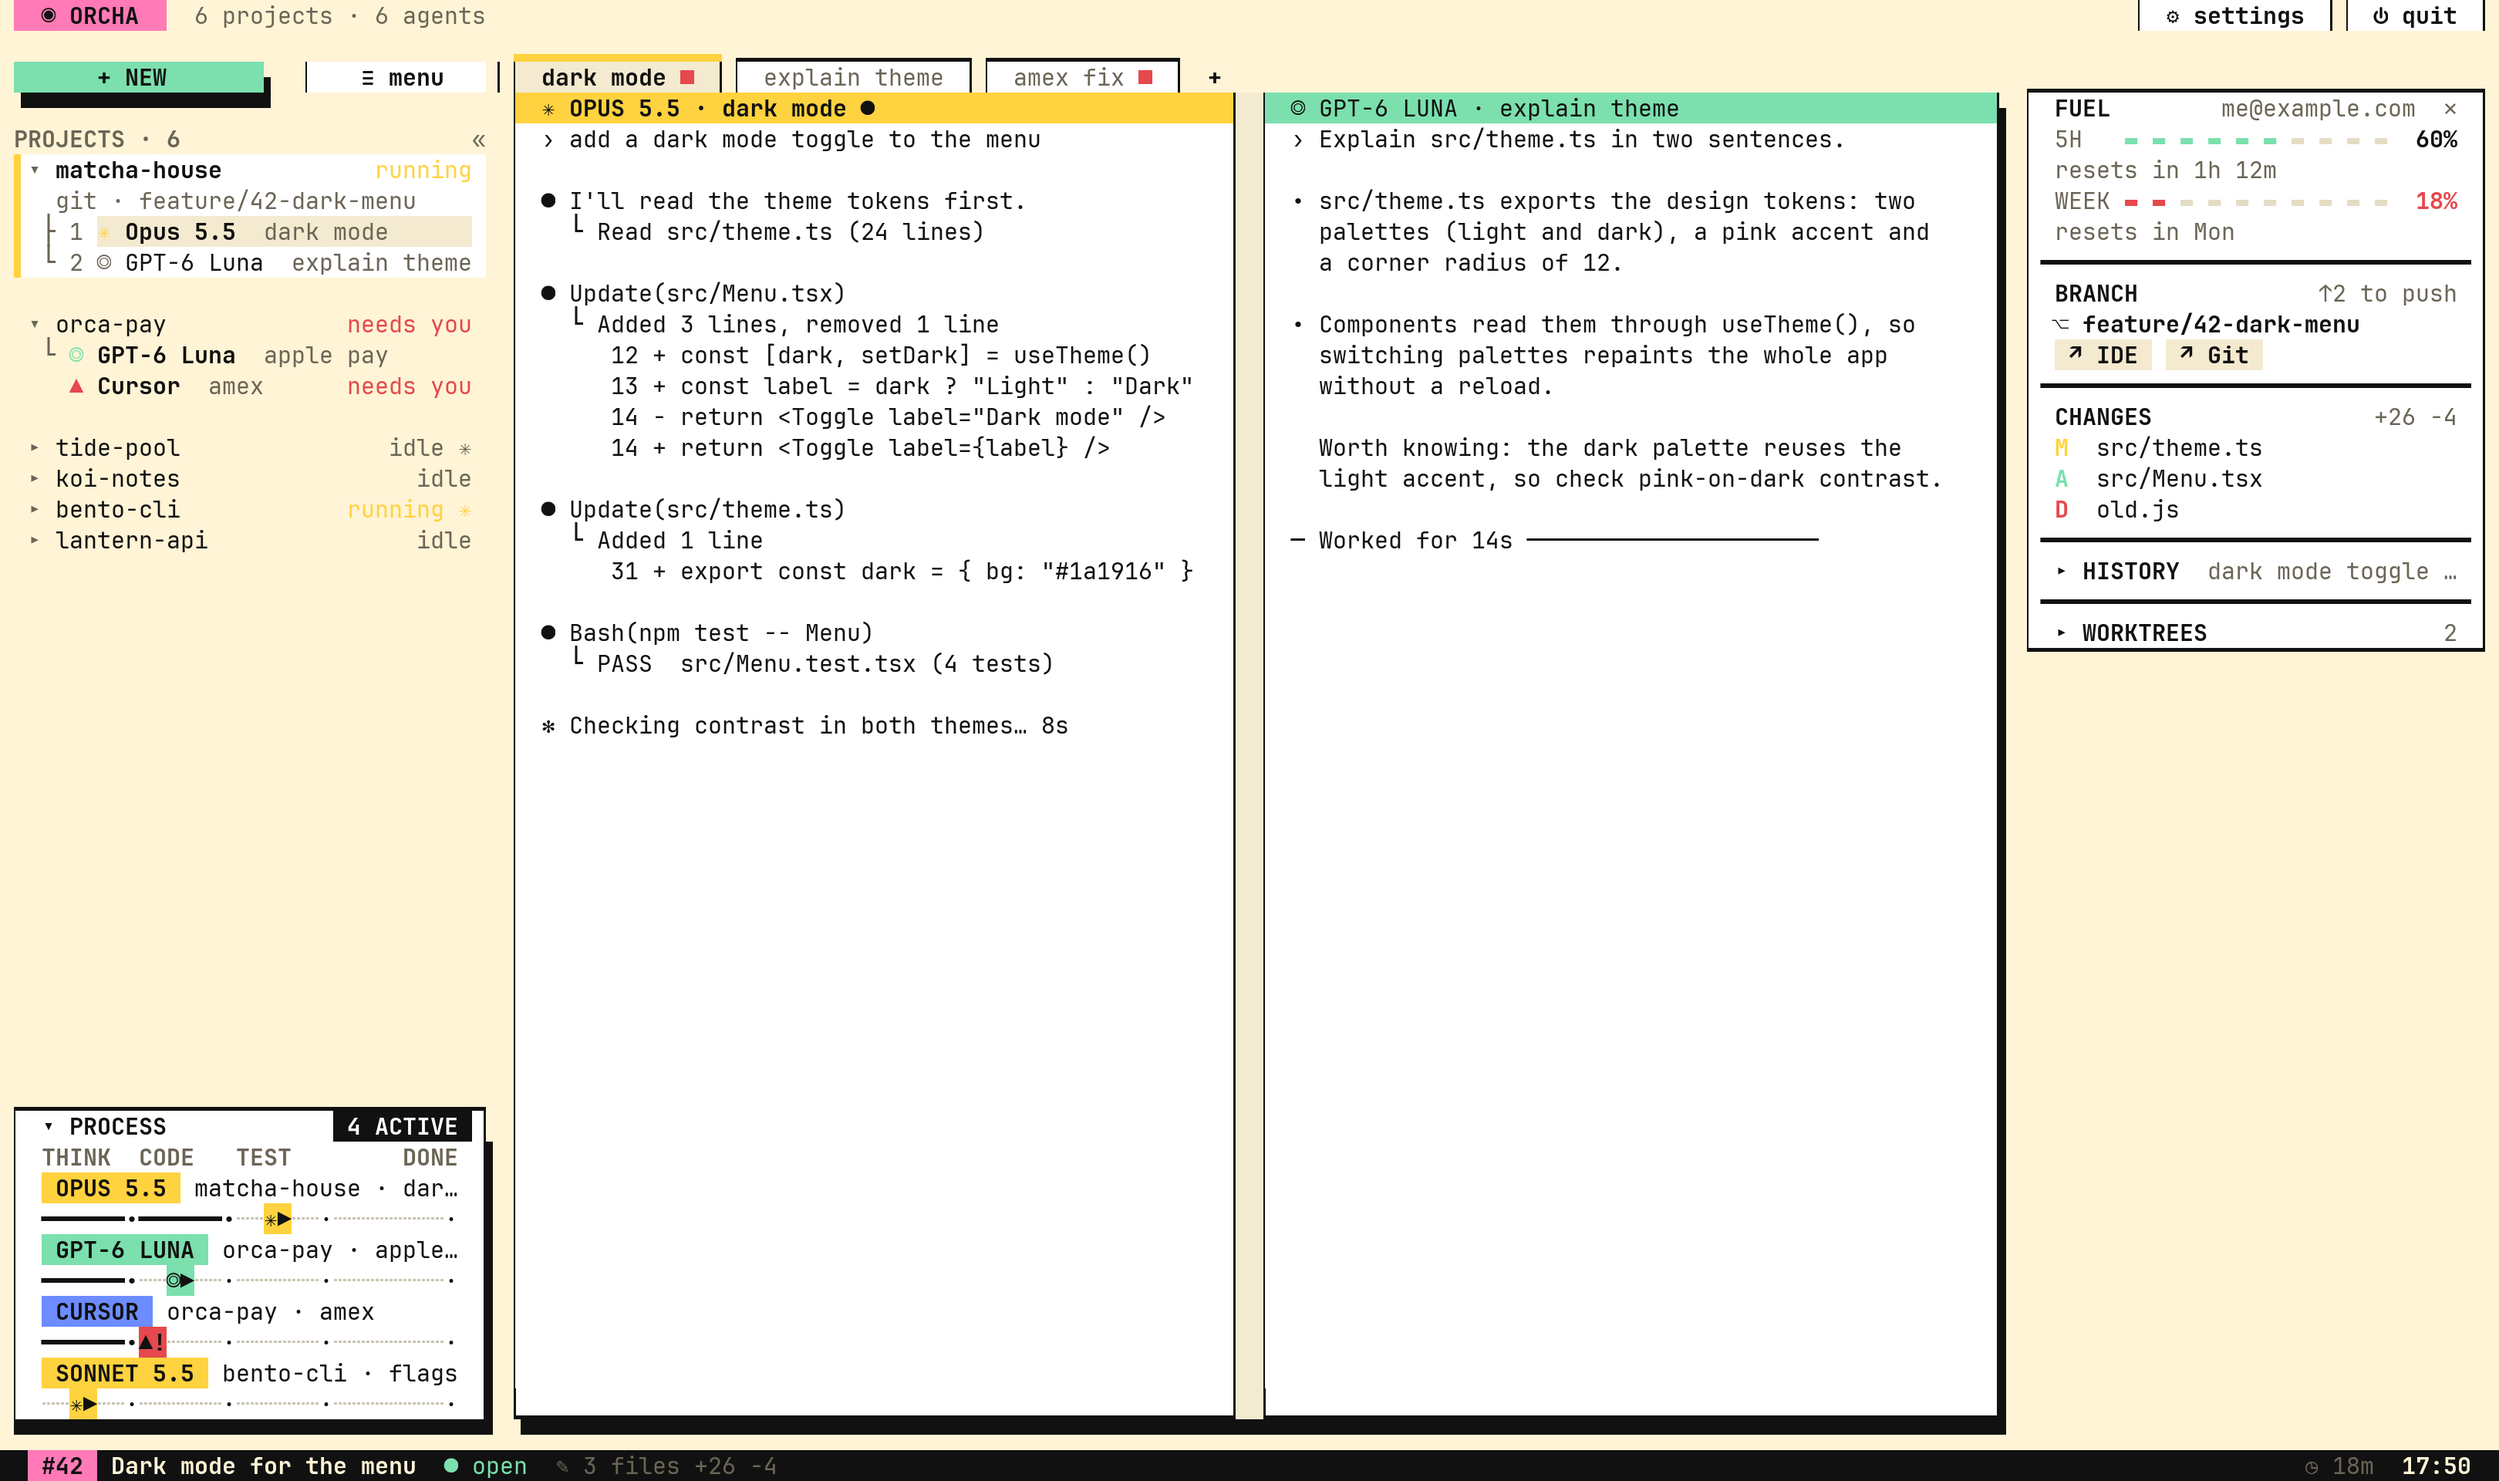
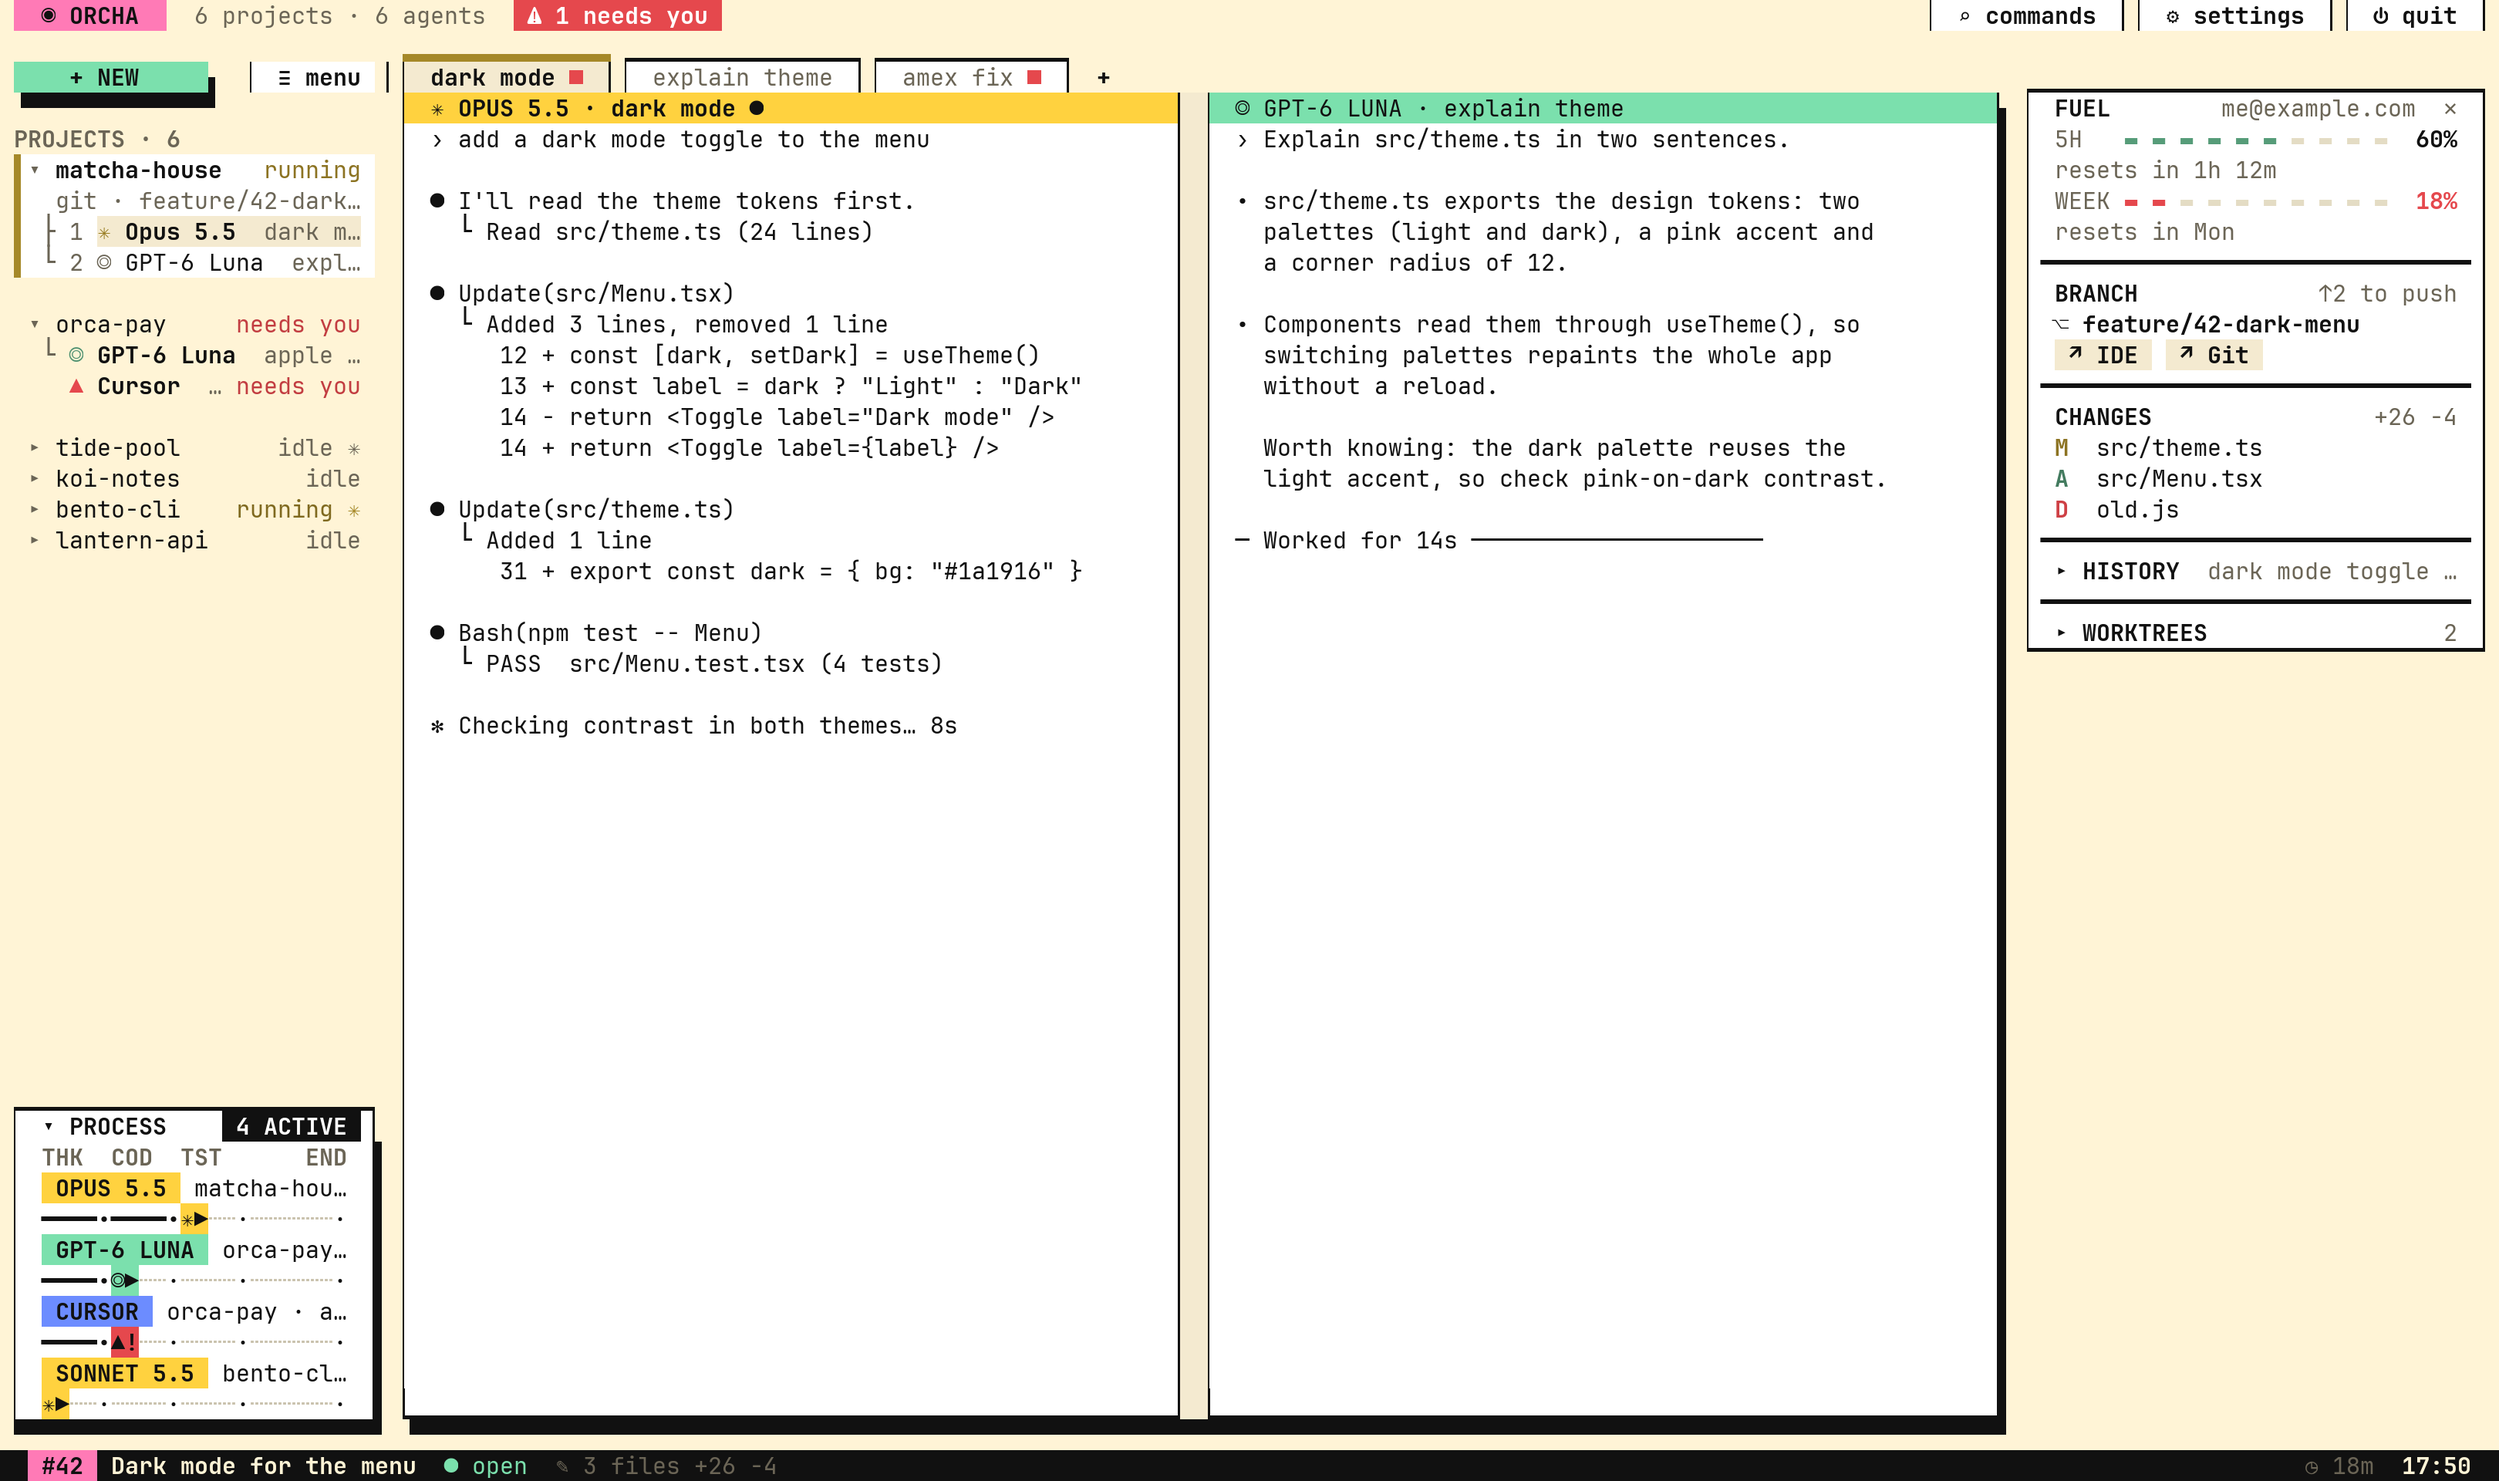
docs: refresh orcha 0.9.9 website and readme

Changed region(s): [[0.0, 0.0, 0.7793, 0.9688], [0.7481, 0.0, 0.8728, 0.0312]]

diff --git a/index.html b/index.html
@@ -4,7 +4,7 @@
     <meta charset="utf-8" />
     <meta name="viewport" content="width=device-width, initial-scale=1, viewport-fit=cover" />
     <meta name="theme-color" content="#1f1c19" />
-    <meta name="description" content="Orcha brings coding agents, projects, account fuel and Git context into one calm terminal workspace." />
+    <meta name="description" content="A little home for your very busy agents. Bring Claude, Codex and Cursor together, check their fuel, and make the workspace yours. macOS and Windows." />
     <title>Orcha — a calm workspace for coding agents</title>
     <link rel="icon" type="image/svg+xml" href="assets/orcha-mark.svg" />
     <link rel="icon" type="image/png" sizes="512x512" href="assets/orcha-mark.png" />
@@ -656,7 +656,7 @@
       <header class="topbar">
         <div class="brand">
           <span class="brand-chip"><img class="brand-mark" src="assets/orcha-mark.svg" alt="" />ORCHA</span>
-          <span class="brand-note">A workspace for coding agents</span>
+          <span class="brand-note">A little home for busy agents</span>
         </div>
         <nav class="top-actions" aria-label="Page actions">
           <a class="github-link" href="https://github.com/trungkien1208/orcha" target="_blank" rel="noreferrer" aria-label="View Orcha on GitHub">
@@ -673,10 +673,10 @@
 
       <main class="stage">
         <section class="workspace-window" aria-label="Orcha workspace preview with projects, agent panes, fuel and Git details">
-          <div class="mini-head">
+          <div class="mini-head" data-spot="commands">
             <span class="mini-brand"><img class="brand-mark" src="assets/orcha-mark.svg" alt="" />ORCHA</span>
             <span class="counts">3 projects · 3 agents</span>
-            <span class="settings">⌘, settings</span>
+            <span class="settings">⌕ commands · settings</span>
           </div>
 
           <div class="window-body">
@@ -782,35 +782,35 @@
         </section>
 
         <section class="intro" aria-labelledby="headline">
-          <p class="eyebrow">The workbench for agentic work</p>
+          <p class="eyebrow"><a href="https://github.com/trungkien1208/orcha/releases/tag/orcha-0.9.9" target="_blank" rel="noreferrer">0.9.9 beta · fresh out of the kitchen ↗</a></p>
           <h1 id="headline">Every agent.<br />Every project.<br />In rhythm.</h1>
-          <p class="lede">Orcha brings coding agents into one terminal workspace, so you can see what’s moving, what needs you, and what changed.</p>
+          <p class="lede">Claude, Codex and Cursor, all under one roof. See who’s busy and who needs a hand. Less tab hide-and-seek, more getting things done.</p>
           <div class="intro-cta">
-            <a class="primary-link" href="https://github.com/trungkien1208/orcha#install" target="_blank" rel="noreferrer">Get started <span aria-hidden="true">↗</span></a>
-            <span class="agent-list">MACOS · WINDOWS</span>
+            <a class="primary-link" href="https://github.com/trungkien1208/orcha#install" target="_blank" rel="noreferrer">Come on in <span aria-hidden="true">↗</span></a>
+            <span class="agent-list">MACOS · WINDOWS<br />YOUR TERMINAL IS WELCOME</span>
           </div>
           <div class="feature-grid" aria-label="Orcha features">
             <article class="feature" tabindex="0" data-target="projects">
               <h2 class="feature-title"><i class="feature-mark" aria-hidden="true"></i>Projects together</h2>
-              <p>Every project, its tabs and agents in one tree.</p>
+              <p>Import your projects. Give a new branch its own worktree.</p>
             </article>
-            <article class="feature" tabindex="0" data-target="status">
-              <h2 class="feature-title"><i class="feature-mark" aria-hidden="true"></i>Live status</h2>
-              <p>See who’s working, done, or waiting on you.</p>
+            <article class="feature" tabindex="0" data-target="commands">
+              <h2 class="feature-title"><i class="feature-mark" aria-hidden="true"></i>Find it. Do it.</h2>
+              <p>Search Commands, or send one prompt to every agent here.</p>
             </article>
             <article class="feature" tabindex="0" data-target="fuel">
-              <h2 class="feature-title"><i class="feature-mark" aria-hidden="true"></i>Fuel & continue on</h2>
-              <p>Low on an account? The chat moves on by itself.</p>
+              <h2 class="feature-title"><i class="feature-mark" aria-hidden="true"></i>Pick the next driver</h2>
+              <p>Check fuel. Choose CONTINUE ON to switch accounts or agents.</p>
             </article>
-            <article class="feature" tabindex="0" data-target="git">
-              <h2 class="feature-title"><i class="feature-mark" aria-hidden="true"></i>Git in view</h2>
-              <p>Branch and changes beside the work.</p>
+            <article class="feature" tabindex="0" data-target="projects git">
+              <h2 class="feature-title"><i class="feature-mark" aria-hidden="true"></i>Make yourself at home</h2>
+              <p>Move panels, pick colors, give projects their own emoji.</p>
             </article>
           </div>
         </section>
       </main>
 
-      <footer class="footer"><span>Open source · macOS &amp; Windows · Terminal native</span><span>Calm by design, built for parallel work.</span></footer>
+      <footer class="footer"><span>Open source · Mac Apple Silicon &amp; Intel · Windows x64</span><span>Found a wobble? <a href="https://github.com/trungkien1208/orcha/issues" target="_blank" rel="noreferrer">Tell us.</a></span></footer>
     </div>
     <script>
       // Pixel art for the intro: one character per pixel.
@@ -989,7 +989,7 @@
       [26, 20, 14, 9, 6].forEach((pct, i) => at(1200 + i * 700, () => setFuel(pct)));
       // Codex finishes its checks and asks for you
       at(3400, () => { setCodexAsking(true); setProject("need", "needs you"); });
-      // the account runs low: CONTINUE ON picks the best next one
+      // Demo: the user opens CONTINUE ON and chooses the suggested account.
       at(5200, () => $("live-continue").classList.add("show"));
       at(6600, () => $("live-continue-btn").classList.add("pressed"));
       at(6900, () => { $("live-continue").classList.remove("show"); setFuel(70, "CLAUDE · PERSONAL"); });
@@ -1026,7 +1026,7 @@
         const on = () => {
           preview.classList.add("spotlighting");
           preview.querySelectorAll("[data-spot]").forEach((el) =>
-            el.classList.toggle("lit", el.dataset.spot.split(" ").includes(target)));
+            el.classList.toggle("lit", target.split(" ").some((spot) => el.dataset.spot.split(" ").includes(spot))));
         };
         const off = () => {
           preview.classList.remove("spotlighting");

diff --git a/README.md b/README.md
@@ -20,7 +20,9 @@
   </picture>
 </p>
 
-<p align="center"><b>Claude Code, Codex and Cursor across all your projects, in one terminal.</b><br/>See who's working, who's waiting on you, and how much fuel is left, without hunting through tabs.</p>
+<p align="center"><b>A little home for your very busy agents.</b><br/>Claude Code, Codex and Cursor, together in one terminal.<br/>See who's working and who needs a hand. Spend less time playing hide-and-seek with tabs.</p>
+
+<p align="center"><a href="https://github.com/trungkien1208/orcha/releases/tag/orcha-0.9.9"><b>0.9.9 beta · what's new</b></a><br/>A little more room to make yourself at home: new settings, project icons and a command search.</p>
 
 ## Install
 
@@ -47,6 +49,8 @@ powershell -NoProfile -ExecutionPolicy Bypass -Command "irm https://raw.githubus
 
 Then run `orcha` inside a project. Your agent sign-ins are picked up automatically, and the first run offers to import projects from Orca, VS Code, Cursor and JetBrains.
 
+Ghostty is optional. Use your usual terminal; orcha includes its own terminal engine. Fuel, accounts and hand-off run inside the app on macOS and Windows. The macOS installer still uses Python 3 for extras such as hooks and the icon font.
+
 ## Why orcha
 
 <p align="center">
@@ -57,12 +61,16 @@ Then run `orcha` inside a project. Your agent sign-ins are picked up automatical
 </p>
 
 - **Every agent at a glance.** Each project lists its tabs and agents; a folded project still shows `running` or `needs you` with the agents involved.
-- **Never stall on limits.** Fuel gauges per account. When one runs low, **CONTINUE ON** moves the chat to another account or hands it to a different agent, whole or summarized.
+- **Low fuel? Pick the next driver.** Check usage per account, then choose **CONTINUE ON** to switch accounts or hand the work to another agent. A hand-off carries notes with the goal, recent conversation and changed files; you choose when to send it.
 - **Paths you can click.** Ctrl+click anything an agent prints: folders open in Finder/Explorer, files in the app you pick once per type, at the right line.
 - **Git beside the work.** Branch, changes and history in the side panel, one click to your IDE or Git app.
-- **Agents outlive the window.** Quit orcha and they keep running; `orcha` brings you straight back.
+- **Close the window. Let them cook.** Quit orcha and your agents keep running in the background; `orcha` brings you back. A reboot still stops running processes.
 - **One search for everything.** `⌕ commands` in the header (or the prefix key, then `:`) finds any action: new agent, worktree, hand off, ask every agent, open in IDE.
-- **Yours to tune.** Settings → `look`: accent color, sidebar width, right panel, where FUEL sits, pane colors, agent logos. Own colors go in `~/.config/orcha/styles/<name>.toml`.
+- **Move the furniture around.** Settings → `look`: put projects on either side, move or hide PROCESS, choose where FUEL sits, and tune colors and sidebar width. The layout sketch shows what goes where. Right-click a project to give it an emoji of its own.
+- Start a fresh worktree from **NEW** when an agent needs its own branch and folder. Or use **Ask every agent here** to send one prompt to the agents in the current project.
+- Accounts getting crowded? Open accounts, press `r` to refresh fuel or `d` to remove an entry from orcha. Removing it keeps its sign-in and chat history.
+
+Light and dark themes are included. For your own palette, add a style to `~/.config/orcha/styles/<name>.toml` on macOS.
 
 <table>
   <tr>
@@ -83,9 +91,21 @@ orcha update      # latest version; a green button also tells you when one is ou
 orcha uninstall   # remove orcha and what it added; asks before touching your settings
 ```
 
+### Coming from an older version?
+
+Run `orcha update`, then quit the interface and open it again. 0.9.9 is a public beta available through the regular installer and updater.
+
+On macOS, if you see `config.toml has unknown keys` after upgrading, the background server may still be running the old version. Move it to the newly installed binary with:
+
+```sh
+orcha server live-handoff --import-exe ~/.local/bin/orcha
+```
+
+After it succeeds, reopen the interface. Live handoff transfers running panes to the new server. Avoid `orcha server stop` while agents are busy: that stops them too.
+
 Best in [Ghostty](https://ghostty.org) on macOS and [WezTerm](https://wezfurlong.org/wezterm/) on Windows; any terminal works. Agent logos come from the icon font in Ghostty, WezTerm and iTerm2 when it is installed, plain symbols elsewhere (Settings → `look` → agent logos changes that). Font, size and ligature settings apply in Ghostty only; elsewhere the font is whatever your terminal uses. Using herdr already? Your config and workspaces come along, and herdr stays untouched.
 
-If something breaks, [open an issue](https://github.com/trungkien1208/orcha/issues) with a screenshot.
+Something looking wonky? [Send a bug report](https://github.com/trungkien1208/orcha/issues) with your OS, terminal, orcha version and a screenshot. Your beta feedback helps shape 1.0.
 
 <details>
 <summary><b>Build from source</b></summary>
